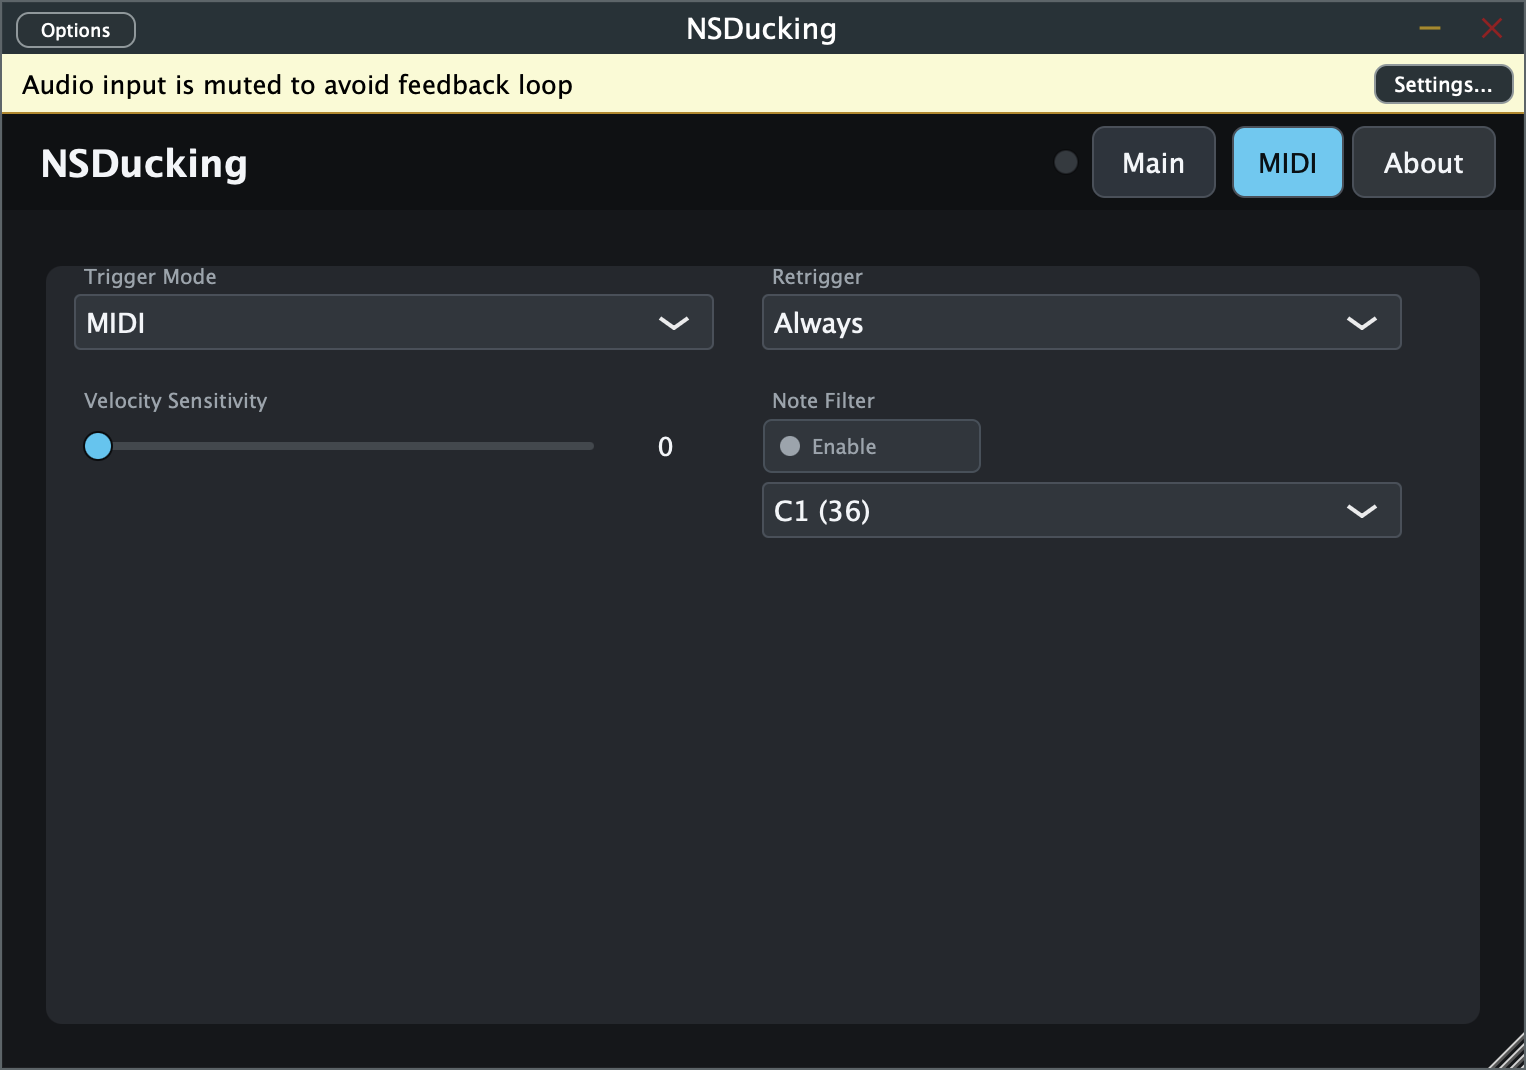
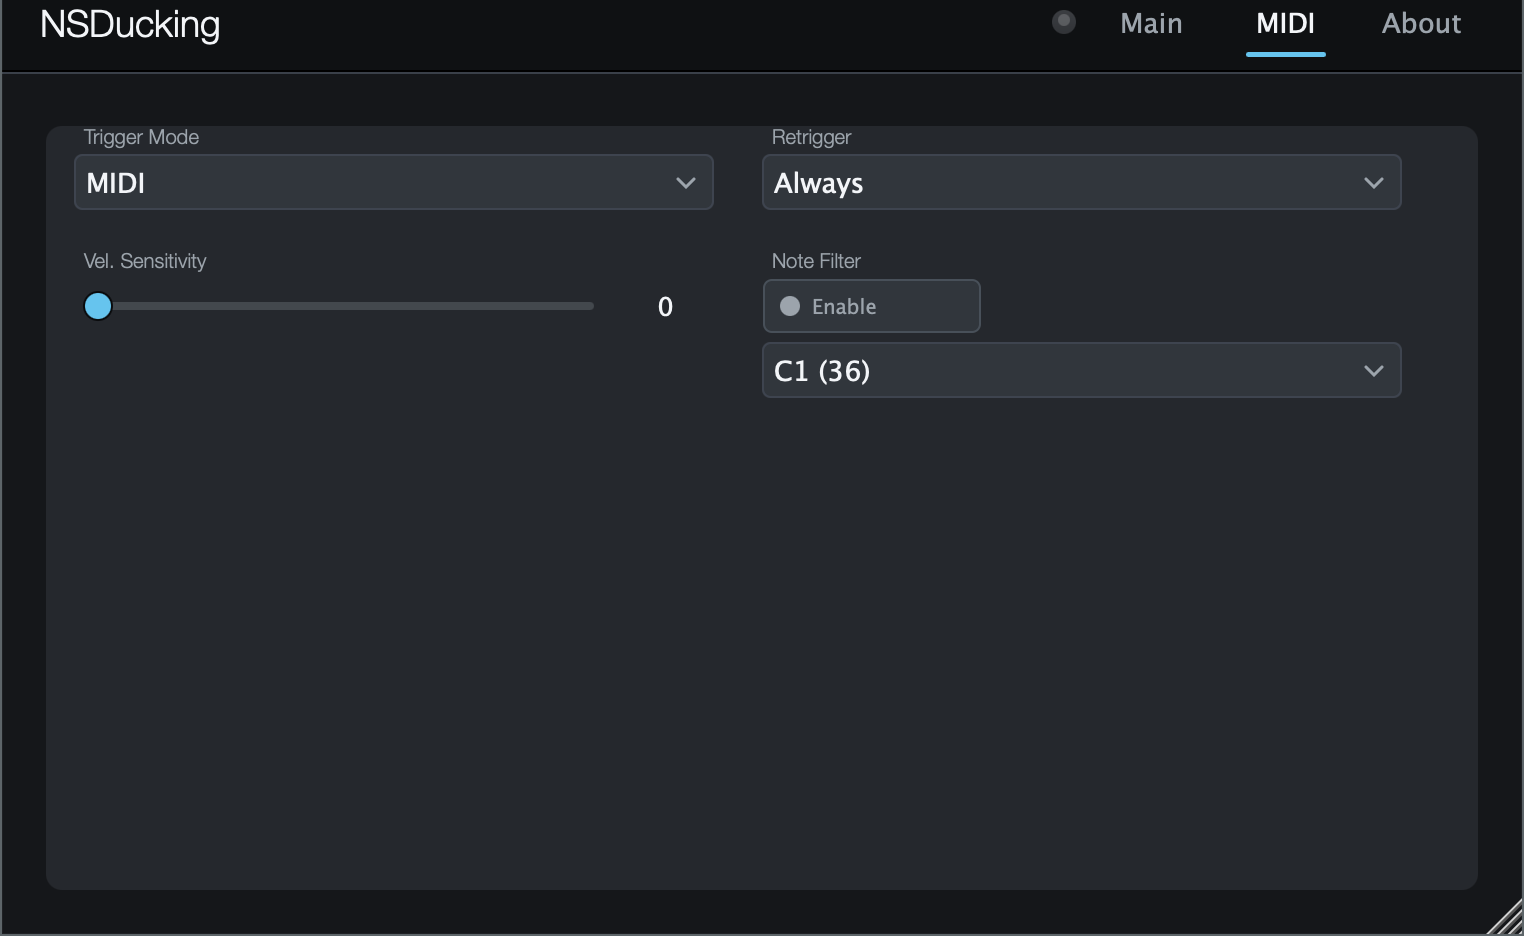
feat: v0.2.0 UI polish — thin gothic font, tab underline, rotary groove arc
- All UI labels switched to English (was Japanese; JUCE CJK rendering
  unsupported without custom shaping pipeline)
- Font changed to Helvetica Neue Light / Segoe UI Light for a clean,
  thin-gothic aesthetic
- Tab buttons now show accent underline for selected state
- Rotary sliders render full-range groove arc + active fill
- Custom combobox chevron arrow
- MIDI LED glow effect
- Header separator line
- About page redesigned with version badge and divider
- BinaryData / bundled fonts removed (no longer needed)
- CMakeLists: formats reverted to VST3 + AU only
- Screenshots updated (all three tabs)

diff --git a/Source/PluginEditor.cpp b/Source/PluginEditor.cpp
@@ -31,20 +31,18 @@ T* choiceParam (NSDuckingAudioProcessor::APVTS& parameters, const juce::String& 
     return dynamic_cast<T*> (parameters.getParameter (id));
 }
 
-juce::Font labelFont()
-{
-    return juce::Font (juce::FontOptions (12.0f));
-}
+// 細めのゴシック体 — macOS: Helvetica Neue Light / Windows: Segoe UI Light
+#if JUCE_WINDOWS
+constexpr const char* kSansRegular = "Segoe UI";
+constexpr const char* kSansLight   = "Segoe UI Light";
+#else
+constexpr const char* kSansRegular = "Helvetica Neue";
+constexpr const char* kSansLight   = "Helvetica Neue";
+#endif
 
-juce::Font titleFont()
-{
-    return juce::Font (juce::FontOptions (22.0f).withStyle ("Bold"));
-}
-
-juce::Font sectionFont()
-{
-    return juce::Font (juce::FontOptions (11.0f).withStyle ("Bold"));
-}
+juce::Font labelFont()   { return juce::Font (juce::FontOptions{}.withName (kSansLight).withHeight (12.0f).withStyle ("Light")); }
+juce::Font titleFont()   { return juce::Font (juce::FontOptions{}.withName (kSansLight).withHeight (22.0f).withStyle ("Light")); }
+juce::Font sectionFont() { return juce::Font (juce::FontOptions{}.withName (kSansRegular).withHeight (11.0f)); }
 
 float smoothHandleValue (const std::array<float, 6>& handles, float position)
 {
@@ -109,7 +107,7 @@ void drawVolumePath (juce::Graphics& g, juce::Rectangle<float> plot,
 }
 } // namespace
 
-// ── LookAndFeel ─────────────────────────────────────────────────────────────
+// ── LookAndFeel ──────────────────────────────────────────────────────────────
 
 NSDuckingLookAndFeel::NSDuckingLookAndFeel()
 {
@@ -118,18 +116,61 @@ NSDuckingLookAndFeel::NSDuckingLookAndFeel()
     setColour (juce::Slider::rotarySliderOutlineColourId, juce::Colour { 0xff111315u });
     setColour (juce::Slider::trackColourId,               accent);
     setColour (juce::Slider::backgroundColourId,          panelLight);
-    setColour (juce::TextButton::buttonColourId,          panelLight);
-    setColour (juce::TextButton::buttonOnColourId,        accent);
-    setColour (juce::TextButton::textColourOffId,         text);
-    setColour (juce::TextButton::textColourOnId,          juce::Colour { 0xff071014u });
+    setColour (juce::TextButton::textColourOffId,         mutedText);
+    setColour (juce::TextButton::textColourOnId,          text);
     setColour (juce::ComboBox::backgroundColourId,        panelLight);
     setColour (juce::ComboBox::textColourId,              text);
-    setColour (juce::ComboBox::outlineColourId,           juce::Colour { 0xff48505au });
+    setColour (juce::ComboBox::outlineColourId,           juce::Colour { 0xff3d4450u });
     setColour (juce::PopupMenu::backgroundColourId,       panel);
     setColour (juce::PopupMenu::textColourId,             text);
     setColour (juce::ToggleButton::textColourId,          text);
     setColour (juce::ToggleButton::tickColourId,          accent);
     setColour (juce::ToggleButton::tickDisabledColourId,  mutedText);
+}
+
+void NSDuckingLookAndFeel::drawButtonBackground (juce::Graphics& g, juce::Button& button,
+                                                  const juce::Colour&,
+                                                  bool shouldDrawButtonAsHighlighted,
+                                                  bool /*shouldDrawButtonAsDown*/)
+{
+    const auto bounds   = button.getLocalBounds().toFloat();
+    const auto selected = button.getToggleState();
+
+    if (shouldDrawButtonAsHighlighted && ! selected)
+    {
+        g.setColour (juce::Colours::white.withAlpha (0.04f));
+        g.fillRoundedRectangle (bounds.reduced (2.0f, 4.0f), 4.0f);
+    }
+
+    if (selected)
+    {
+        g.setColour (accent);
+        g.fillRoundedRectangle (
+            juce::Rectangle<float> (bounds.getX() + 8.0f, bounds.getBottom() - 3.0f,
+                                    bounds.getWidth() - 16.0f, 2.5f), 1.2f);
+    }
+}
+
+void NSDuckingLookAndFeel::drawComboBox (juce::Graphics& g, int width, int height,
+                                          bool /*isButtonDown*/,
+                                          int /*buttonX*/, int /*buttonY*/,
+                                          int /*buttonW*/, int /*buttonH*/, juce::ComboBox&)
+{
+    const auto bounds = juce::Rectangle<float> (0.0f, 0.0f, (float) width, (float) height);
+    g.setColour (panelLight);
+    g.fillRoundedRectangle (bounds, 4.0f);
+    g.setColour (juce::Colour { 0xff3d4450u });
+    g.drawRoundedRectangle (bounds.reduced (0.5f), 4.0f, 1.0f);
+
+    const float cx = (float) width - 14.0f;
+    const float cy = (float) height * 0.5f;
+    juce::Path chevron;
+    chevron.startNewSubPath (cx - 4.0f, cy - 1.5f);
+    chevron.lineTo (cx,        cy + 2.5f);
+    chevron.lineTo (cx + 4.0f, cy - 1.5f);
+    g.setColour (mutedText);
+    g.strokePath (chevron, juce::PathStrokeType (1.5f, juce::PathStrokeType::mitered,
+                                                  juce::PathStrokeType::rounded));
 }
 
 void NSDuckingLookAndFeel::drawRotarySlider (juce::Graphics& g, int x, int y, int width, int height,
@@ -151,17 +192,30 @@ void NSDuckingLookAndFeel::drawRotarySlider (juce::Graphics& g, int x, int y, in
     g.setColour (juce::Colour { 0xff090a0cu });
     g.drawEllipse (bounds, 1.5f);
 
+    // Groove – full range, dimmed
+    juce::Path groove;
+    groove.addCentredArc (centre.x, centre.y, radius - 5.0f, radius - 5.0f, 0.0f,
+                          rotaryStartAngle, rotaryEndAngle, true);
+    g.setColour (juce::Colour { 0xff1b1e22u });
+    g.strokePath (groove, juce::PathStrokeType (3.0f, juce::PathStrokeType::curved, juce::PathStrokeType::rounded));
+
+    // Active arc
     juce::Path arc;
     arc.addCentredArc (centre.x, centre.y, radius - 5.0f, radius - 5.0f, 0.0f,
                        rotaryStartAngle, angle, true);
     g.setColour (accent);
     g.strokePath (arc, juce::PathStrokeType (3.0f, juce::PathStrokeType::curved, juce::PathStrokeType::rounded));
 
-    const auto markerLength = radius * 0.55f;
-    const auto markerStart  = centre.getPointOnCircumference (radius * 0.22f, angle);
-    const auto markerEnd    = centre.getPointOnCircumference (markerLength, angle);
-    g.setColour (text);
-    g.drawLine ({ markerStart, markerEnd }, 2.4f);
+    // Pointer line
+    const auto markerStart = centre.getPointOnCircumference (radius * 0.22f, angle);
+    const auto markerEnd   = centre.getPointOnCircumference (radius * 0.60f, angle);
+    g.setColour (text.withAlpha (0.90f));
+    g.drawLine ({ markerStart, markerEnd }, 2.0f);
+
+    // Thumb dot at arc tip
+    const auto thumbPt = centre.getPointOnCircumference (radius - 5.0f, angle);
+    g.setColour (accent.brighter (0.3f));
+    g.fillEllipse (thumbPt.x - 2.5f, thumbPt.y - 2.5f, 5.0f, 5.0f);
 }
 
 void NSDuckingLookAndFeel::drawLinearSlider (juce::Graphics& g, int x, int y, int width, int height,
@@ -267,7 +321,10 @@ void CurveDisplay::paint (juce::Graphics& g)
 
     g.setFont (labelFont());
     g.setColour (mutedText);
-    g.drawText ("Volume Curve", bounds.toNearestInt().reduced (16, 10), juce::Justification::topLeft);
+    const auto labelArea = bounds.reduced (16.0f, 10.0f);
+    g.drawText ("Curve", juce::Rectangle<int> ((int) labelArea.getX(), (int) labelArea.getY(),
+                                                (int) (labelArea.getWidth() * 0.5f), 18),
+                juce::Justification::centredLeft);
     g.drawText (juce::String (nsducking::getPresetName (preset).data()), bounds.toNearestInt().reduced (16, 10),
                 juce::Justification::topRight);
 
@@ -469,7 +526,7 @@ NSDuckingAudioProcessorEditor::NSDuckingAudioProcessorEditor (NSDuckingAudioProc
     triggerModeCombo.addItemList ({ "MIDI", "Host Sync" }, 1);
     addChildComponent (triggerModeCombo);
 
-    configureHorizontalSlider (velocitySensSlider, velocitySensLabel, "Velocity Sensitivity");
+    configureHorizontalSlider (velocitySensSlider, velocitySensLabel, "Vel. Sensitivity");
 
     retriggerLabel.setText ("Retrigger", juce::dontSendNotification);
     retriggerLabel.setFont (labelFont());
@@ -497,11 +554,6 @@ NSDuckingAudioProcessorEditor::NSDuckingAudioProcessorEditor (NSDuckingAudioProc
     }
     addChildComponent (noteFilterCombo);
 
-    // About page
-    aboutPageLabel.setFont (juce::Font (juce::FontOptions (15.0f)));
-    aboutPageLabel.setColour (juce::Label::textColourId, text);
-    aboutPageLabel.setJustificationType (juce::Justification::centred);
-    addChildComponent (aboutPageLabel);
 
     // Attach parameters
     auto& state = audioProcessor.getState();
@@ -533,23 +585,101 @@ void NSDuckingAudioProcessorEditor::paint (juce::Graphics& g)
 {
     g.fillAll (background);
 
+    // Header bar
     auto bounds = getLocalBounds();
     g.setColour (juce::Colour { 0xff0f1113u });
     g.fillRect (bounds.removeFromTop (48));
 
-    const auto level          = audioProcessor.getMidiActivity();
-    const auto indicatorBounds = midiIndicator.getBounds().toFloat();
-    g.setColour (level > 0.0f ? hotAccent.withAlpha (0.35f + 0.65f * level) : juce::Colour { 0xff343a40u });
-    g.fillEllipse (indicatorBounds);
-    g.setColour (juce::Colour { 0x66000000u });
-    g.drawEllipse (indicatorBounds, 1.0f);
+    // Hairline separator at bottom of header
+    g.setColour (juce::Colour { 0xff000000u });
+    g.drawHorizontalLine (48, 0.0f, (float) getWidth());
+    g.setColour (juce::Colour { 0xff38404au });
+    g.drawHorizontalLine (49, 0.0f, (float) getWidth());
 
+    // MIDI activity LED
+    const auto level           = audioProcessor.getMidiActivity();
+    const auto indicatorBounds = midiIndicator.getBounds().toFloat();
+    const bool active          = level > 0.0f;
+
+    if (active)
+    {
+        g.setColour (hotAccent.withAlpha (0.10f * level));
+        g.fillEllipse (indicatorBounds.expanded (6.0f));
+        g.setColour (hotAccent.withAlpha (0.22f * level));
+        g.fillEllipse (indicatorBounds.expanded (3.0f));
+    }
+
+    const auto ledColour = active ? hotAccent : juce::Colour { 0xff3a3e42u };
+    g.setGradientFill (juce::ColourGradient (
+        ledColour.brighter (active ? 0.35f * level : 0.0f),
+        indicatorBounds.getCentreX(), indicatorBounds.getY(),
+        ledColour.darker (0.2f),
+        indicatorBounds.getCentreX(), indicatorBounds.getBottom(), false));
+    g.fillEllipse (indicatorBounds);
+    g.setColour (juce::Colours::white.withAlpha (0.18f));
+    g.fillEllipse (indicatorBounds.reduced (3.0f).translated (0.0f, -1.0f));
+
+    // Content panel (non-main tabs)
     if (currentTab != 0)
     {
         auto pagePanel = getLocalBounds().reduced (22);
         pagePanel.removeFromTop (54);
         g.setColour (panel);
         g.fillRoundedRectangle (pagePanel.toFloat(), 8.0f);
+    }
+
+    // About page – drawn directly for full typographic control
+    if (currentTab == 2)
+    {
+        auto area = getLocalBounds();
+        area.removeFromTop (54);
+        area.reduce (36, 24);
+
+        g.setFont (titleFont());
+        g.setColour (text);
+        g.drawText ("NSDucking", area.removeFromTop (36), juce::Justification::centred);
+
+        // Version badge
+        const auto badgeW   = 64.0f;
+        const auto badgeH   = 22.0f;
+        const auto badgeRect = juce::Rectangle<float> (
+            (float) getWidth() * 0.5f - badgeW * 0.5f,
+            (float) area.getY() + 1.0f, badgeW, badgeH);
+        g.setColour (accent.withAlpha (0.15f));
+        g.fillRoundedRectangle (badgeRect, 5.0f);
+        g.setColour (accent);
+        g.setFont (sectionFont());
+        g.drawText ("v0.2.0", badgeRect.toNearestInt(), juce::Justification::centred);
+        area.removeFromTop (30);
+
+        // Divider
+        area.removeFromTop (10);
+        g.setColour (panelLight.brighter (0.1f));
+        g.fillRect (juce::Rectangle<float> ((float) getWidth() * 0.35f, (float) area.getY(),
+                                            (float) getWidth() * 0.30f, 1.0f));
+        area.removeFromTop (14);
+
+        // Subtitle + author
+        g.setFont (juce::Font (juce::FontOptions{}.withHeight (14.0f)));
+        g.setColour (mutedText);
+        g.drawText ("MIDI-triggered audio ducking plugin", area.removeFromTop (22), juce::Justification::centred);
+        g.setFont (juce::Font (juce::FontOptions{}.withHeight (13.0f)));
+        g.setColour (text.withAlpha (0.65f));
+        g.drawText ("by nisesimadao", area.removeFromTop (22), juce::Justification::centred);
+        area.removeFromTop (20);
+
+        // Description
+        g.setFont (juce::Font (juce::FontOptions{}.withHeight (12.0f)));
+        g.setColour (mutedText.withAlpha (0.75f));
+        g.drawText ("Trigger ducking envelopes with MIDI Note On  |  Shape curves with draggable handles",
+                    area.removeFromTop (20), juce::Justification::centred, true);
+        area.removeFromTop (28);
+
+        // Footer
+        g.setFont (juce::Font (juce::FontOptions{}.withHeight (11.0f)));
+        g.setColour (mutedText.withAlpha (0.45f));
+        g.drawText ("Built with JUCE 8  |  MIT License  |  github.com/nisesimadao/NSDucking",
+                    area.removeFromTop (18), juce::Justification::centred);
     }
 }
 
@@ -567,9 +697,8 @@ void NSDuckingAudioProcessorEditor::resized()
 
     area.reduce (16, 14);
 
-    const auto showMain  = currentTab == 0;
-    const auto showMidi  = currentTab == 1;
-    const auto showAbout = currentTab == 2;
+    const auto showMain = currentTab == 0;
+    const auto showMidi = currentTab == 1;
 
     // ── Main page layout ─────────────────────────────────────────────────────
     auto bottom   = area.removeFromBottom (112);
@@ -640,13 +769,6 @@ void NSDuckingAudioProcessorEditor::resized()
         noteFilterCombo.setBounds (rightCol.removeFromTop (rowH));
     }
 
-    // ── About page layout ─────────────────────────────────────────────────────
-    {
-        auto aboutArea = getLocalBounds();
-        aboutArea.removeFromTop (54);
-        aboutPageLabel.setBounds (aboutArea.reduced (36, 36));
-    }
-
     // ── Visibility ────────────────────────────────────────────────────────────
     depthSlider.setVisible (showMain);
     smoothSlider.setVisible (showMain);
@@ -670,7 +792,6 @@ void NSDuckingAudioProcessorEditor::resized()
     noteFilterButton.setVisible (showMidi);
     noteFilterCombo.setVisible (showMidi);
 
-    aboutPageLabel.setVisible (showAbout);
 }
 
 void NSDuckingAudioProcessorEditor::configureRotarySlider (juce::Slider& slider, juce::Label& label,
@@ -710,6 +831,8 @@ void NSDuckingAudioProcessorEditor::configureTabButton (juce::TextButton& button
 {
     button.setClickingTogglesState (false);
     button.onClick = [this, tabIndex] { setCurrentTab (tabIndex); };
+    button.setColour (juce::TextButton::textColourOffId, mutedText);
+    button.setColour (juce::TextButton::textColourOnId,  text);
     addAndMakeVisible (button);
 }
 
@@ -723,17 +846,6 @@ void NSDuckingAudioProcessorEditor::setCurrentTab (int tabIndex)
         parameter->setValueNotifyingHost (parameter->convertTo0to1 (static_cast<float> (currentTab)));
         parameter->endChangeGesture();
     }
-
-    // Update About page text (here so it's always fresh)
-    aboutPageLabel.setText (
-        "NSDucking  v0.1.0\n\n"
-        "Free MIDI-triggered ducking plugin\n"
-        "by nisesimadao\n\n"
-        "Trigger your audio ducking envelope with MIDI Note On.\n"
-        "Edit curves by dragging the handles in the Curve Editor.\n\n"
-        "Built with JUCE  --  MIT License\n"
-        "github.com/nisesimadao/NSDucking",
-        juce::dontSendNotification);
 
     updateTabButtons();
     resized();

diff --git a/Source/PluginEditor.h b/Source/PluginEditor.h
@@ -13,6 +13,8 @@ class NSDuckingLookAndFeel final : public juce::LookAndFeel_V4
 {
 public:
     NSDuckingLookAndFeel();
+    void drawButtonBackground (juce::Graphics&, juce::Button&, const juce::Colour& backgroundColour,
+                               bool shouldDrawButtonAsHighlighted, bool shouldDrawButtonAsDown) override;
     void drawRotarySlider (juce::Graphics&, int x, int y, int width, int height, float sliderPos,
                            float rotaryStartAngle, float rotaryEndAngle, juce::Slider&) override;
     void drawLinearSlider (juce::Graphics&, int x, int y, int width, int height,
@@ -20,6 +22,8 @@ public:
                            juce::Slider::SliderStyle, juce::Slider&) override;
     void drawToggleButton (juce::Graphics&, juce::ToggleButton&,
                            bool shouldDrawButtonAsHighlighted, bool shouldDrawButtonAsDown) override;
+    void drawComboBox (juce::Graphics&, int width, int height, bool isButtonDown,
+                       int buttonX, int buttonY, int buttonW, int buttonH, juce::ComboBox&) override;
 };
 
 class CurveDisplay final : public juce::Component, private juce::Timer
@@ -112,9 +116,6 @@ private:
     juce::ToggleButton noteFilterButton;
     juce::ComboBox noteFilterCombo;
     juce::Label    noteFilterLabel;
-
-    // About page
-    juce::Label    aboutPageLabel;
 
     int currentTab = 0;
 

diff --git a/README.md b/README.md
@@ -18,6 +18,10 @@ VST3 / AU 対応 · JUCE 8 · macOS / Windows · MIT License
 
 ![NSDucking MIDI](images/screenshot_midi.png)
 
+### About タブ
+
+![NSDucking About](images/screenshot_about.png)
+
 ---
 
 ## 特徴